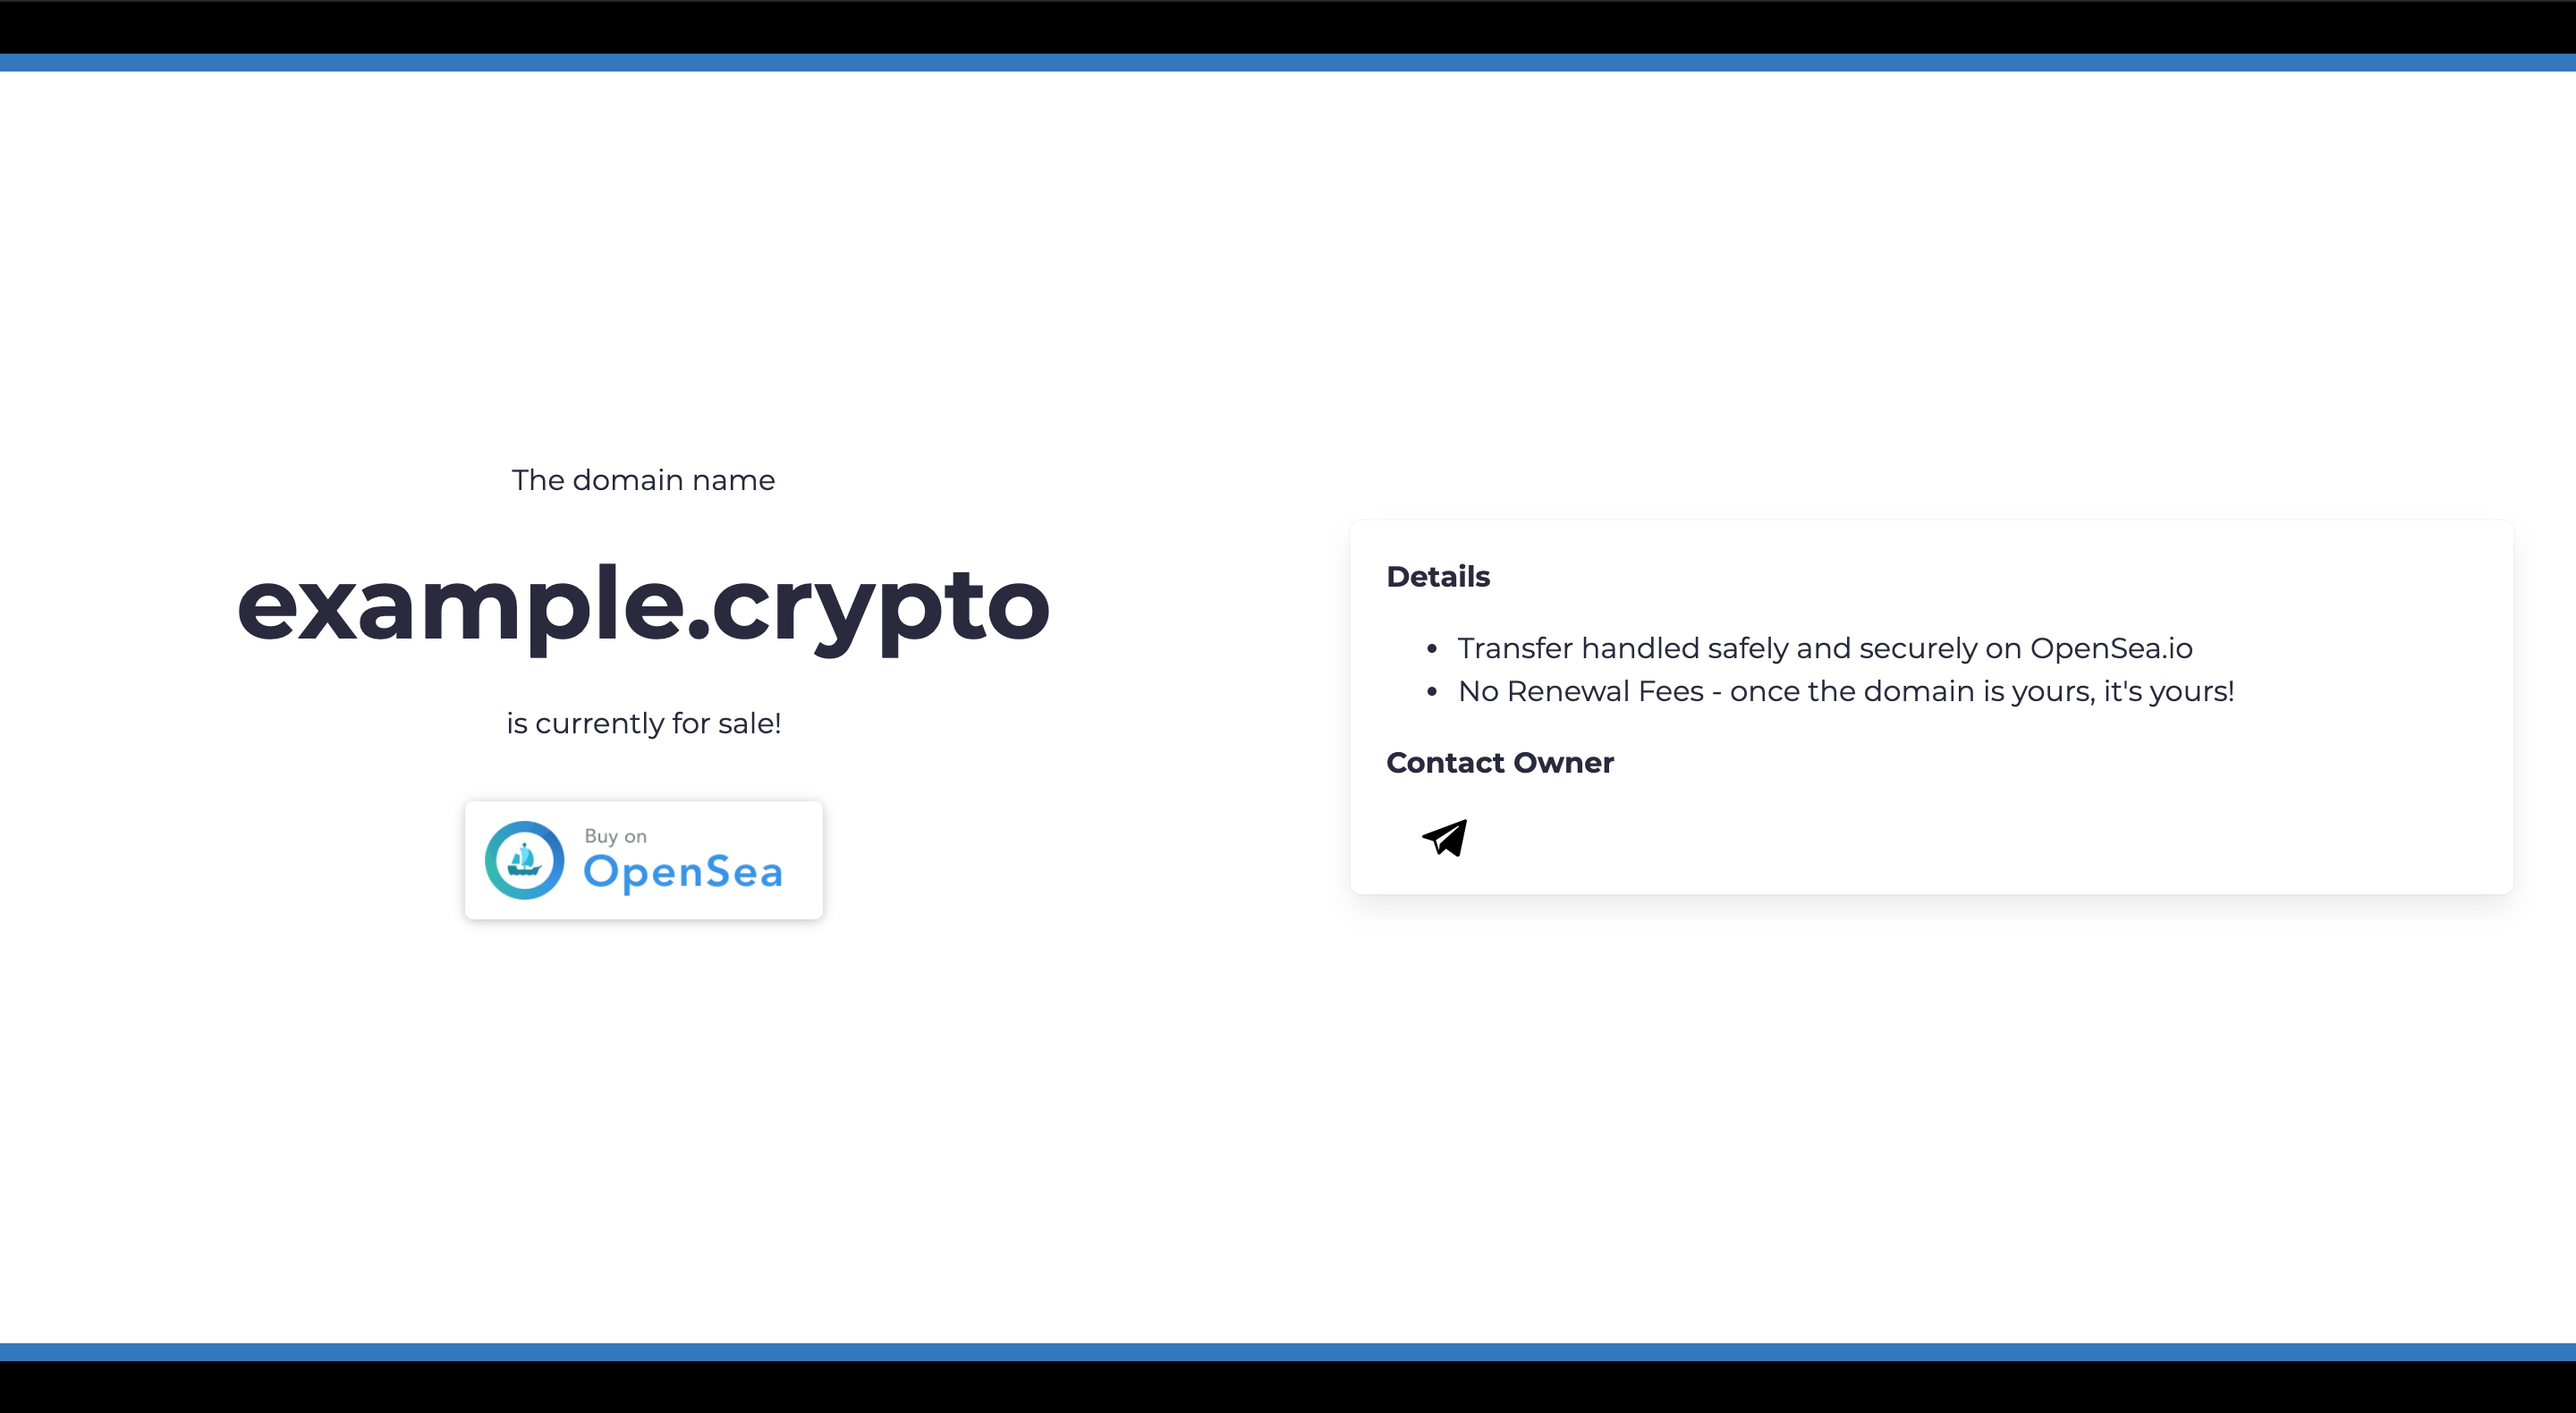
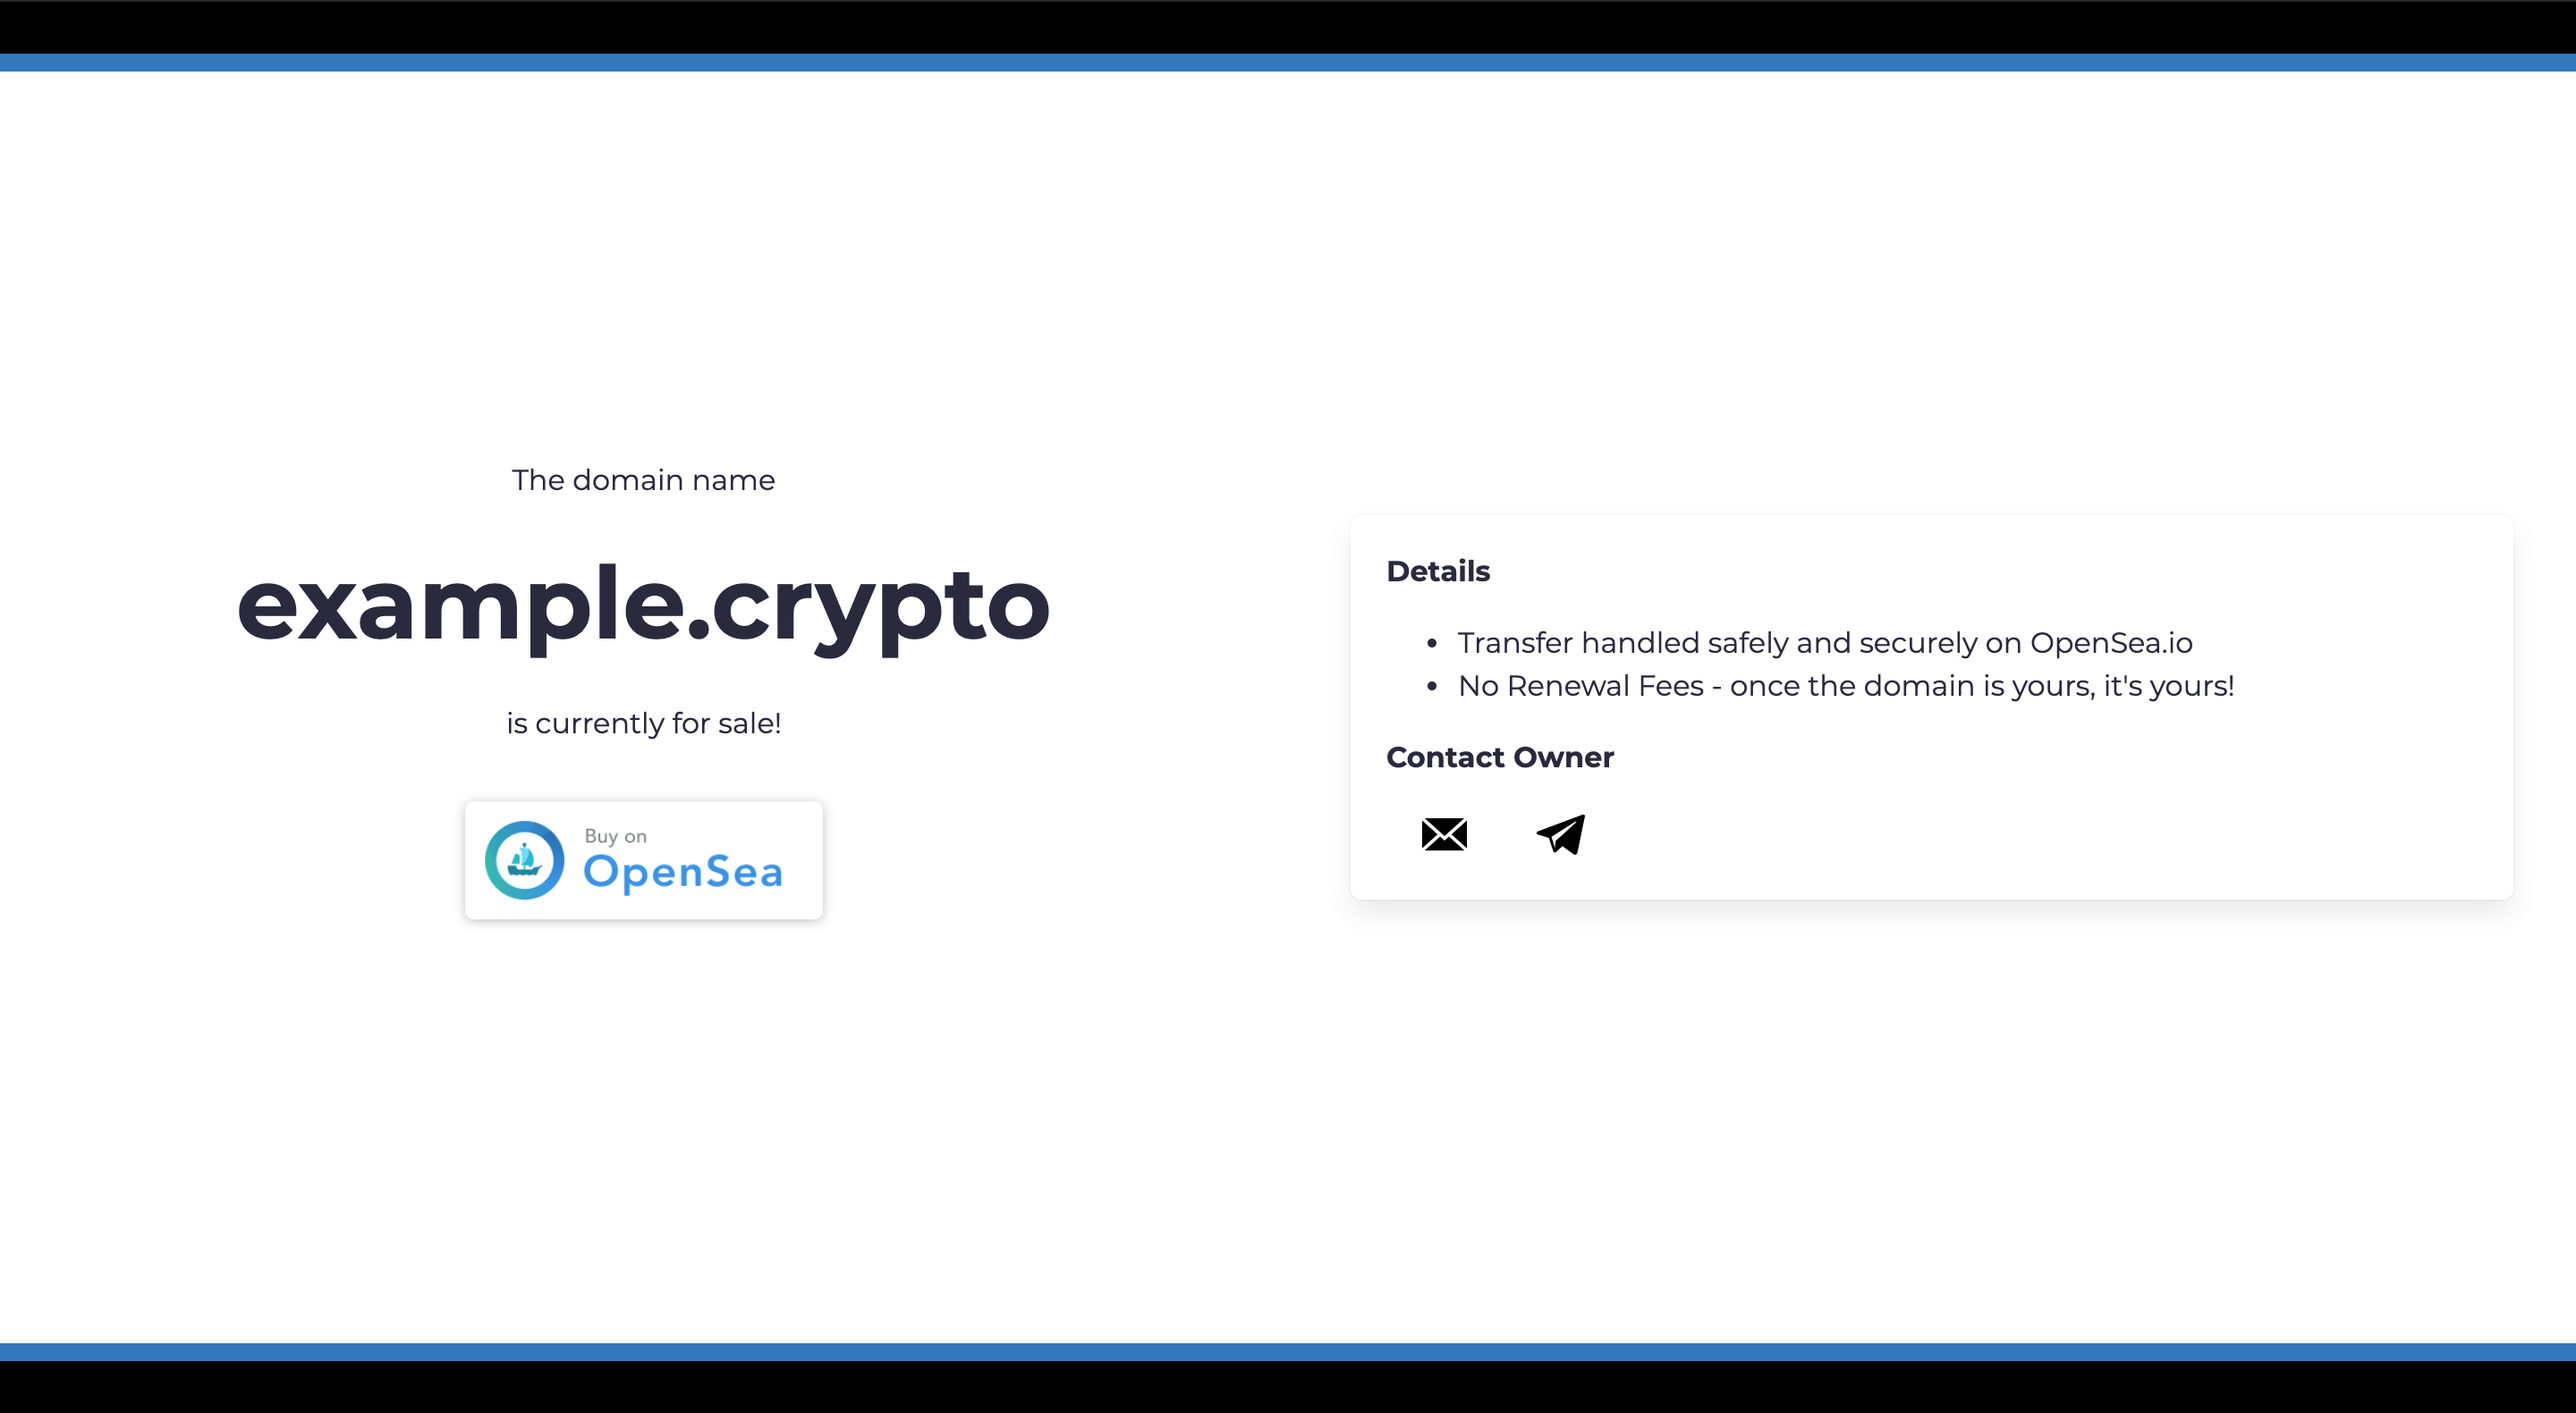
tweak assets + inline styles

Changed region(s): [[0.5625, 0.4342, 0.875, 0.4962], [0.5312, 0.5272, 0.625, 0.6203], [0.5312, 0.4032, 0.5625, 0.4342]]

diff --git a/examples/community/4sale/index.html b/examples/community/4sale/index.html
@@ -5,25 +5,28 @@
     <link rel="icon" href="./assets/favicon.ico" />
     <meta name="viewport" content="width=device-width,initial-scale=1" />
     <meta name="theme-color" content="#000000" />
-    <meta name="description" content="Web site created using Unstoppable Domains IPFS Template Launcher" />
     <link href="./styles.css" rel="stylesheet" />
-
     <!-- Update title -->
     <title>4Sale Template</title>
+    <!-- Update description -->
+    <meta name="description" content="Web site created using Unstoppable Domains IPFS Template Launcher" />
 </head>
 
 <body>
-    <div class="root">
-        <div class="bar"></div>
+    <!-- Update background-color -->
+    <div class="root" style="background-color: black;">
+        <!-- Update background-color -->
+        <div class="bar" style="background-color: #2F76BD;"></div>
+        <!-- Update background-color -->
+        <div class="content" style="background-color: white;">
 
-        <div class="content">
             <div class="box domain-box">
-                <p class="subtitle">The domain name</p>
+                <p class="text">The domain name</p>
 
                 <!-- Update domain name text -->
                 <h1 class="title">example.crypto</h1>
 
-                <p class="subtitle">is currently for sale!</p>
+                <p class="text">is currently for sale!</p>
 
                 <p class="opensea-container">
                     <!-- Update OpenSea href -->
@@ -34,16 +37,17 @@
             </div>
 
             <div class="box">
-                <div class="paper">
-                    <p class="subtitle bold">Details</p>
+                <!-- Update background-color -->
+                <div class="paper" style="background-color: white;">
+                    <p class="text bold">Details</p>
 
                     <!-- Update ul list element details texts -->
-                    <ul class="subtitle">
+                    <ul class="text">
                         <li>Transfer handled safely and securely on OpenSea.io</li>
                         <li>No Renewal Fees - once the domain is yours, it's yours!</li>
                     </ul>
 
-                    <p class="subtitle bold">Contact Owner</p>
+                    <p class="text bold">Contact Owner</p>
 
                     <p class="img-container padding-left-desk">
                         <!-- Update href -->
@@ -58,9 +62,10 @@
                     </p>
                 </div>
             </div>
-        </div>
 
-        <div class="bar"></div>
+        </div>
+        <!-- Update background-color -->
+        <div class="bar" style="background-color: #2F76BD;"></div>
     </div>
 </body>
 

diff --git a/examples/community/4sale/styles.css b/examples/community/4sale/styles.css
@@ -70,7 +70,6 @@ button {
     width: 100%;
     align-items: center;
     justify-content: center;
-    background-color: black;
 }
 
 .opensea {
@@ -91,7 +90,6 @@ button {
 .bar {
     width: 100%;
     height: 10px;
-    background-color:#2F76BD;
 }
 
 .content {
@@ -101,7 +99,6 @@ button {
     width: 100%;
     align-items: center;
     justify-content: center;
-    background-color: white;
 }
 
 .logo {
@@ -120,7 +117,6 @@ button {
 }
 
 .paper {
-    background-color: white;
     border-radius: 6px;
     box-shadow: 0 0.5em 1em -0.125em rgba(10, 10, 10, 0.1),
         0 0px 0 1px rgba(10, 10, 10, 0.02);
@@ -155,7 +151,7 @@ button {
     margin-right: 35px;
 }
 
-.subtitle {
+.text {
     font-family: Montserrat;
     font-size: 16px;
     font-weight: normal;

diff --git a/examples/community/4sale/README.md b/examples/community/4sale/README.md
@@ -6,6 +6,6 @@ A short and simple for-sale lander page for your .crypto domain.
 - Add any additional details/notes about the domain or process
 - Can add a link to your Telegram (in case a potential buyer may want to reach out to you)
 
-You're also able to tweak parts the color scheme to your liking.
+You're also able to tweak parts the color scheme if preferred.
 
 ![screenshot](assets/screenshot-desktop.png)
